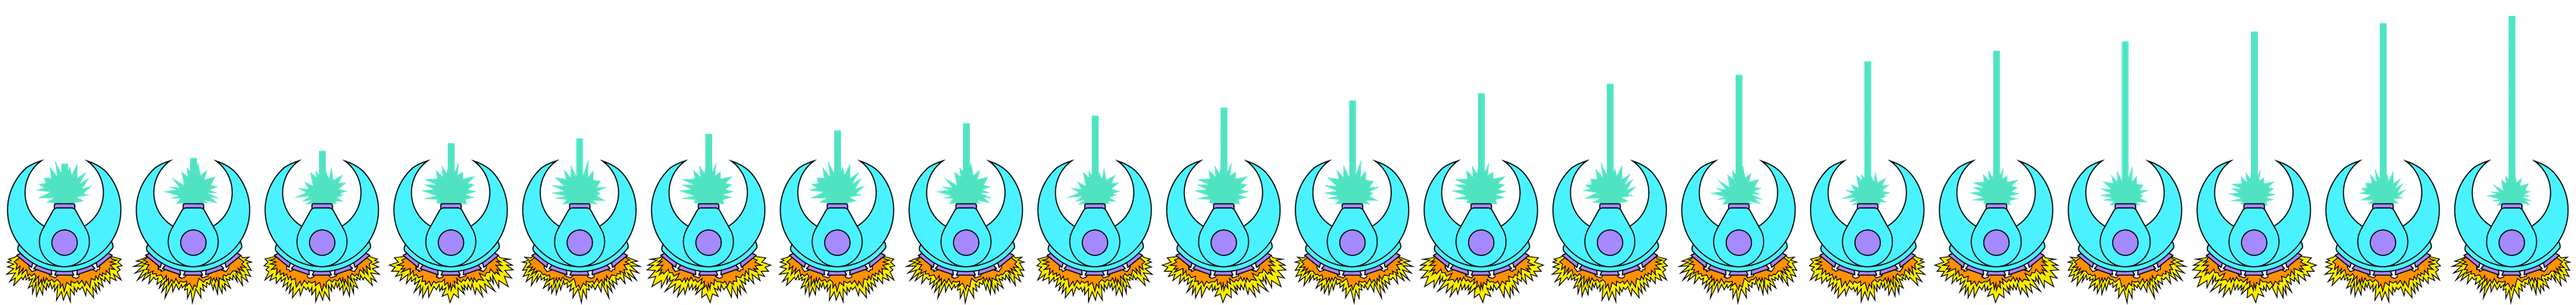
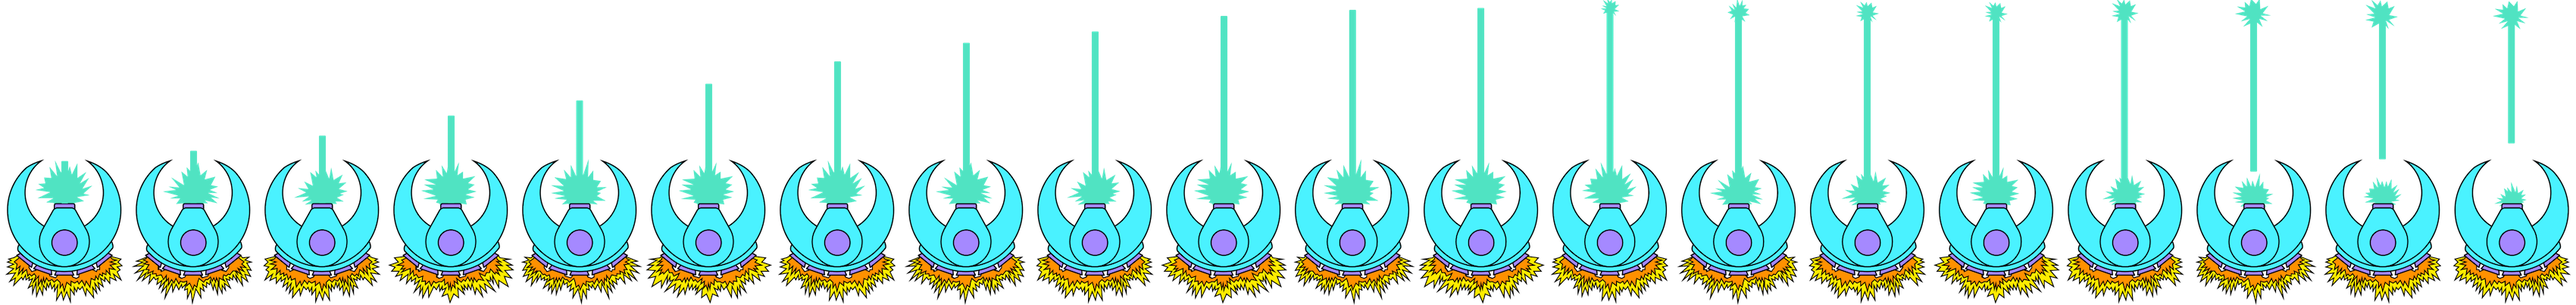
mothership animation

diff --git a/Code/core/src/edu/cornell/gdiac/controller/PlayMode.java b/Code/core/src/edu/cornell/gdiac/controller/PlayMode.java
@@ -1657,14 +1657,11 @@ public class PlayMode extends WorldController implements ContactListener {
         FIRE_Array.add(MOTHERSHIP_FIRE_Animation_6);
         FIRE_Array.add(MOTHERSHIP_FIRE_Animation_7);
         FIRE_Array.add(MOTHERSHIP_FIRE_Animation_8);
-        FIRE_Array.add(MOTHERSHIP_Animation); FIRE_Array.add(MOTHERSHIP_Animation);
-        FIRE_Array.add(MOTHERSHIP_Animation); FIRE_Array.add(MOTHERSHIP_Animation);
-        FIRE_Array.add(MOTHERSHIP_Animation); FIRE_Array.add(MOTHERSHIP_Animation);
-        FIRE_Array.add(MOTHERSHIP_Animation); FIRE_Array.add(MOTHERSHIP_Animation);
-        FIRE_Array.add(MOTHERSHIP_Animation); FIRE_Array.add(MOTHERSHIP_Animation);
-        FIRE_Array.add(MOTHERSHIP_Animation); FIRE_Array.add(MOTHERSHIP_Animation);
-        FIRE_Array.add(MOTHERSHIP_Animation); FIRE_Array.add(MOTHERSHIP_Animation);
-        FIRE_Array.add(MOTHERSHIP_Animation); FIRE_Array.add(MOTHERSHIP_Animation);
+        FIRE_Array.add(MOTHERSHIP_FIRE_Animation_8);
+        FIRE_Array.add(MOTHERSHIP_FIRE_Animation_8);
+        FIRE_Array.add(MOTHERSHIP_FIRE_Animation_8);
+
+
 
     }
 
